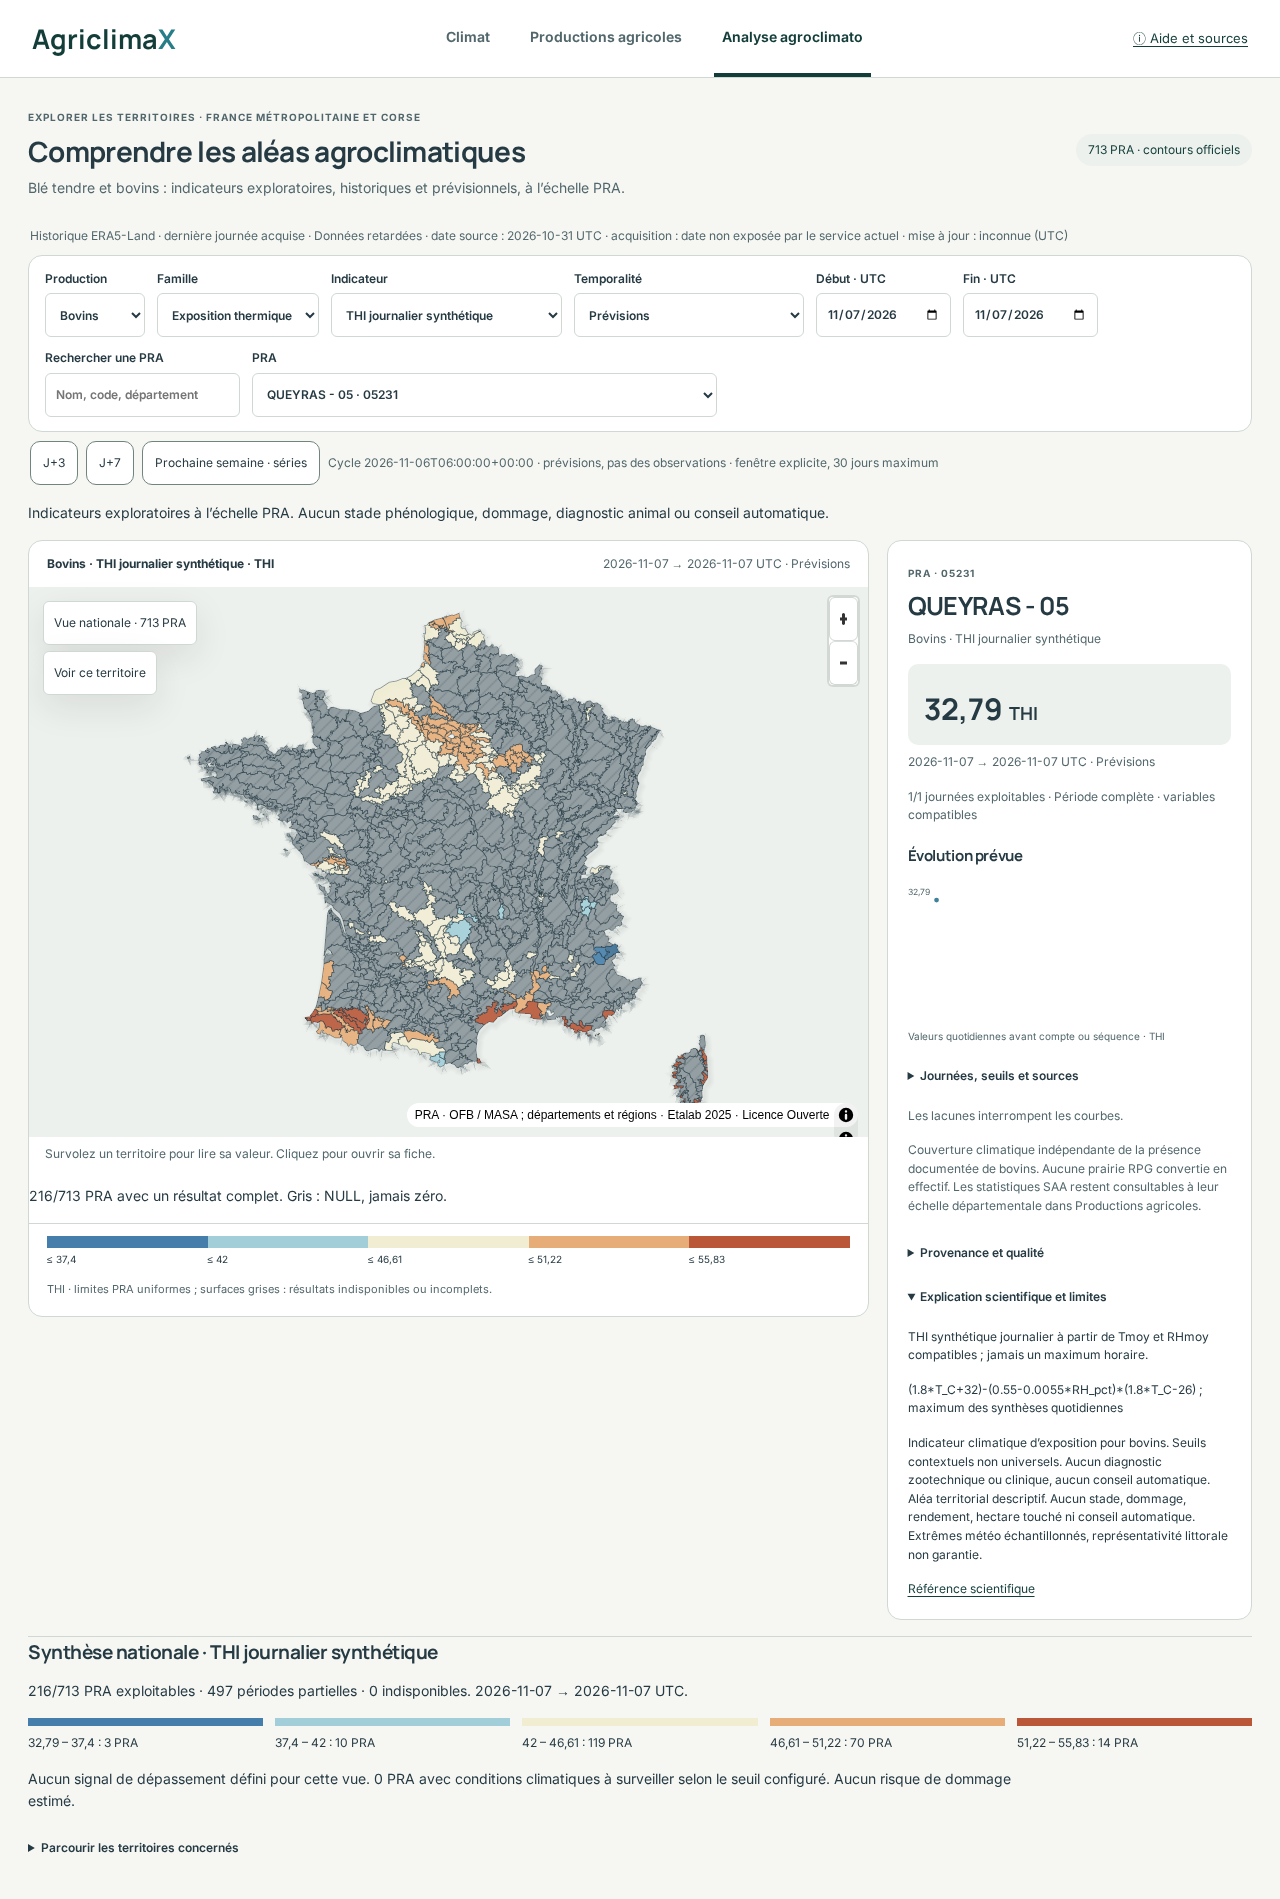
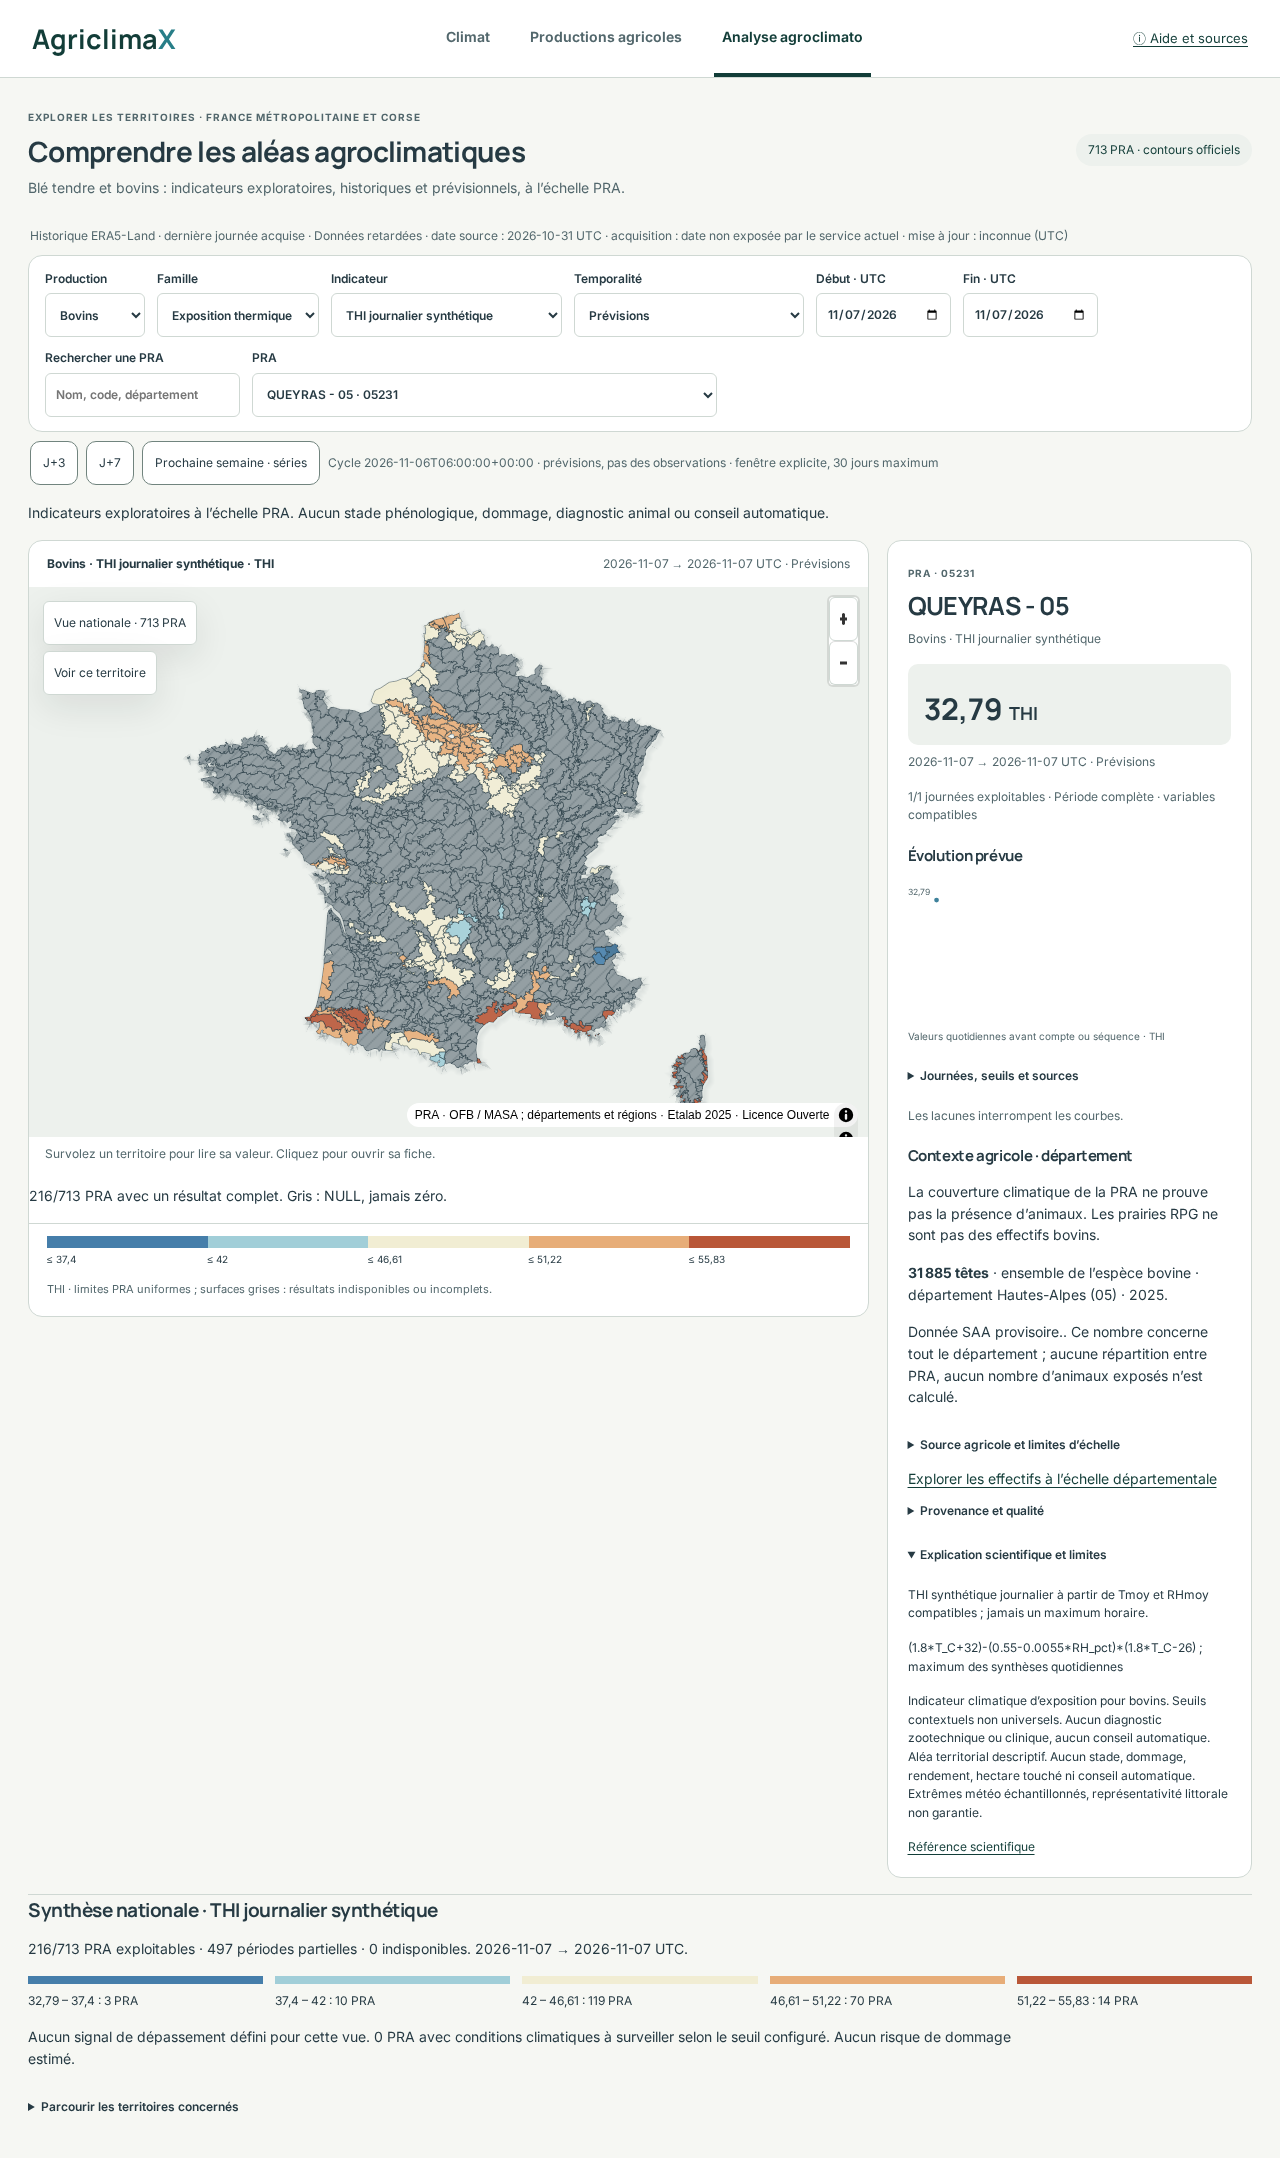
feat(cattle): show existing SAA context at its official departmental scale

diff --git a/apps/web/features/agriculture/cattle-context.tsx b/apps/web/features/agriculture/cattle-context.tsx
@@ -1,0 +1,108 @@
+"use client";
+import Link from "next/link";
+import { useAgriculturalData } from "./explorer";
+import {
+  agriculturalValue,
+  type AgriculturalDataset,
+  type AgriculturalManifest,
+} from "./model";
+
+type Dataset = AgriculturalDataset & {
+  source: AgriculturalManifest;
+  rule_version: string;
+  data_freshness: string;
+  provenance: string;
+};
+const INDICATOR = "saa-efa-20-eff-departement";
+export function CattleContext({
+  department,
+  pra,
+}: {
+  department: string | undefined;
+  pra: string;
+}) {
+  const resource = useAgriculturalData<Dataset>(
+    department
+      ? `/api/agriculture?action=dataset&indicator=${INDICATOR}`
+      : null,
+  );
+  const dataset = resource.data,
+    year = 2025;
+  const row = dataset?.rows.find((r) => r.code === department);
+  const current = agriculturalValue(row, dataset?.indicator.years ?? [], year);
+  const readable =
+    current.value === null
+      ? "Indisponible"
+      : new Intl.NumberFormat("fr-FR", { maximumFractionDigits: 0 }).format(
+          current.value,
+        );
+  const query = new URLSearchParams({
+    pra,
+    agri_production: "saa-efa-20",
+    agri_variable: "EFF",
+    echelle: "departement",
+    annee: String(year),
+    ...(department ? { territoire: "dep:" + department } : {}),
+  });
+  return (
+    <section aria-label="Contexte bovin départemental">
+      <h3>Contexte agricole · département</h3>
+      <p>
+        La couverture climatique de la PRA ne prouve pas la présence d’animaux.
+        Les prairies RPG ne sont pas des effectifs bovins.
+      </p>
+      {!department ? (
+        <p>
+          Rattachement départemental absent du référentiel : aucun effectif
+          attribué.
+        </p>
+      ) : resource.error ? (
+        <p role="status">
+          Contexte SAA départemental inaccessible ; le THI reste consultable.
+        </p>
+      ) : !dataset ? (
+        <p role="status">Chargement des effectifs départementaux SAA…</p>
+      ) : (
+        <>
+          <p>
+            <strong>
+              {readable}
+              {current.value !== null ? " têtes" : ""}
+            </strong>{" "}
+            · ensemble de l’espèce bovine · département{" "}
+            {row?.name ?? department} ({department}) · {year}.
+          </p>
+          <p>
+            {current.status === "suppressed"
+              ? "Secret statistique : aucune valeur reconstituée."
+              : current.value === null
+                ? "Effectif indisponible ; aucun zéro déduit."
+                : dataset.source.statistical_status[String(year)] ===
+                    "provisional"
+                  ? "Donnée SAA provisoire."
+                  : "Statut : " + current.status}
+            . Ce nombre concerne tout le département ; aucune répartition entre
+            PRA, aucun nombre d’animaux exposés n’est calculé.
+          </p>
+          <details>
+            <summary>Source agricole et limites d’échelle</summary>
+            <p>
+              Agreste / SSP · {dataset.indicator.label} · unité{" "}
+              {dataset.indicator.unit} · échelle officielle{" "}
+              {dataset.indicator.scale}.
+            </p>
+            <p>
+              Règle {dataset.rule_version} · publication{" "}
+              {dataset.data_freshness} · acquisition{" "}
+              {dataset.source.acquired_at}.
+            </p>
+            <a href={dataset.provenance}>Source officielle SAA</a>
+          </details>
+        </>
+      )}
+      <Link href={"/productions?" + query}>
+        Explorer les effectifs à l’échelle départementale
+      </Link>
+    </section>
+  );
+}

diff --git a/apps/web/features/agroclimatic/workspace.tsx b/apps/web/features/agroclimatic/workspace.tsx
@@ -9,6 +9,7 @@ import { calendarDays, trailingStart } from "../national/daily-availability";
 import type { PraCollection } from "../national/map";
 import type { WeatherCycle } from "../operational/model";
 import { useResource } from "../unified/resource";
+import { CattleContext } from "../agriculture/cattle-context";
 import { WheatContext } from "../agriculture/wheat-context";
 import { INDICATORS, type TerritorialValue } from "../unified/model";
 const fmt = (v: number | null | undefined) =>
@@ -465,12 +466,7 @@ export function useAgroclimatic(
           threshold={threshold ?? 0}
         />
       ) : (
-        <p>
-          Couverture climatique indépendante de la présence documentée de
-          bovins. Aucune prairie RPG convertie en effectif. Les statistiques SAA
-          restent consultables à leur échelle départementale dans Productions
-          agricoles.
-        </p>
+        <CattleContext department={feature.properties.department} pra={pra} />
       )}
       {current && (
         <details>

diff --git a/apps/web/features/national/map.tsx b/apps/web/features/national/map.tsx
@@ -12,6 +12,7 @@ export type PraProperties = {
   code: string;
   name: string;
   department_name: string;
+  department?: string;
   region_name: string;
 };
 export type PraCollection = FeatureCollection<Geometry, PraProperties>;

diff --git a/docs/codex/task28/AGRICULTURAL_CONTEXT.md b/docs/codex/task28/AGRICULTURAL_CONTEXT.md
@@ -4,4 +4,6 @@ Le composant WheatContext existant est réutilisé et appelle `/api/agriculture?
 
 La lecture distingue l'aléa territorial et la présence agricole déclarée. La sensibilité biologique et le risque de dommage ne sont pas calculés. Aucun stade phénologique, hectare affecté, perte ou rendement n'est déduit.
 
-Les lecteurs SAA existants conservent leur échelle départementale/régionale dans Productions agricoles. Aucune statistique départementale n'est affectée aux PRA et aucune prairie RPG n'est assimilée à un effectif bovin. L'Analyse bovins décrit la couverture climatique indépendamment d'une présence documentée d'animaux ; elle renvoie explicitement au contexte SAA à son échelle officielle. Aucun nouvel effectif de cheptel n'a été introduit ni inféré dans cette V1.
+Les lecteurs SAA existants conservent leur échelle départementale/régionale dans Productions agricoles. Aucune statistique départementale n'est affectée aux PRA et aucune prairie RPG n'est assimilée à un effectif bovin. L'Analyse bovins décrit la couverture climatique indépendamment d'une présence documentée d'animaux ; elle renvoie explicitement au contexte SAA à son échelle officielle. Aucun nouveau jeu d'effectifs n'est acquis ; seuls les effectifs départementaux SAA déjà intégrés sont réutilisés dans la fiche.
+
+Le catalogue déjà intégré contient `saa-efa-20-eff-departement` (Ensemble espèce bovine, EFA 20, EFF, têtes). La fiche bovins réutilise cette série pour le département officiellement attaché à la PRA dans le référentiel : année 2025, statut provisoire/secret/absence conservé, source et règle affichées. Ce nombre est présenté comme le total de tout le département, jamais comme un effectif PRA ou un effectif exposé. Le lien ouvre la lecture départementale existante avec la PRA conservée dans l'URL. Aucun rattachement n'est deviné si la propriété officielle `department` manque.

diff --git a/docs/codex/task28/CATTLE_THI_RESULTS.md b/docs/codex/task28/CATTLE_THI_RESULTS.md
@@ -20,3 +20,5 @@ Historique 25–31 octobre : zéro THI calculable, car le contrat historique ne 
 La vue indépendante « Jours de chaleur météorologique » dispose de 645 PRA historiques et 713 par journée prévisionnelle. Ce n'est pas un substitut au THI. Une PRA sans THI reste sélectionnable et le contexte de présence d'animaux n'est jamais inféré du RPG ou de la couverture météo.
 
 Référence existante Bohmanova et al. (2005), seuil assumé dans l'étude sur Holstein américaines, exploratoire ici. Comparaison Institut de l'Élevage non achevée : site renvoyant un écran de vérification de connexion. Aucun changement silencieux de seuil. Les races, âge, production, bâtiments, ventilation, rayonnement, eau et microclimat limitent l'interprétation. Aucun diagnostic zootechnique, clinique ou de bien-être animal.
+
+Contexte agricole : les effectifs SAA 2025 déjà acquis de l'ensemble des bovins (EFA 20, EFF) sont affichés à l'échelle du département officiellement attaché, avec provenance, millésime et statut. Aucune quantité départementale n'est affectée aux PRA ni croisée avec le THI pour calculer un nombre d'animaux exposés.

diff --git a/docs/codex/task28/ACCEPTANCE.md b/docs/codex/task28/ACCEPTANCE.md
@@ -25,3 +25,5 @@ Le site de l'Institut de l'Élevage renvoie une vérification de connexion : com
 3. Exécuter `TASK28_ORIGIN=http://127.0.0.1:<port> TASK28_OUTPUT=docs/codex/task28/evidence/preview node tests/e2e/task28-real.mjs` puis `python scripts/agroclimatic_verify.py --origin http://127.0.0.1:<port> --output docs/codex/task28/evidence/independent-preview.json`.
 4. Comparer les résultats au cycle explicitement choisi, documenter tout nouveau cycle ; ne relancer aucun fournisseur météo, pipeline agricole ou publication quotidienne.
 5. Ajouter les captures et attribuer séparément les quatre verdicts seulement après validation Preview. Garder la PR draft, sans fusion ni déploiement production.
+
+Complément C4 : le total bovin départemental SAA 2025 réutilise le dataset existant `saa-efa-20-eff-departement`, avec rattachement officiel du référentiel, source et statut. La lecture API et la fiche THI calculable sont comparées, et les captures bovines incluent ce contexte ; aucune affectation d'effectif aux PRA.
